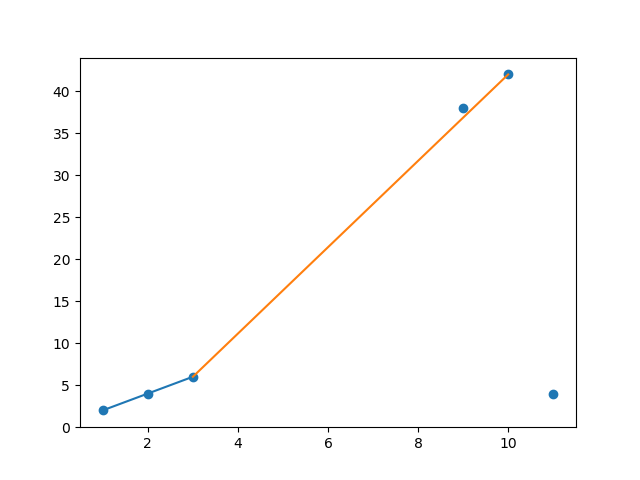
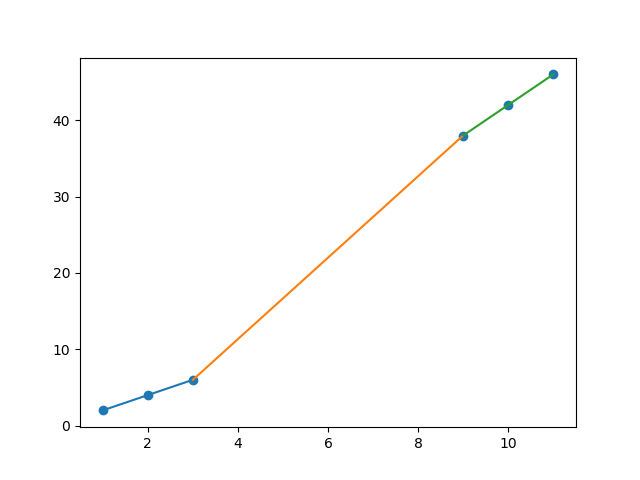
correct viz

diff --git a/plot.py b/plot.py
@@ -12,17 +12,34 @@ if __name__=='__main__':
 		points.append([(float)(point[:-1].split(" ")[0]),(float)(point[:-1].split(" ")[1])])
 		pointsXFull.append((float)(point[:-1].split(" ")[0]))
 		pointsYFull.append((float)(point[:-1].split(" ")[1]))
+	pathSegments=os.getcwd()+'/output/outputSegments.txt'
+	segments=[]
+	segmentsFile=open(pathSegments,'r')
+	len=0
+	for segment in reversed(segmentsFile.readlines()):
+		# print(line)
+		if(len==0):
+			segments.append((int)(segment.split(" ")[0]))
+			segments.append((int)(segment.split(" ")[1]))
+			len+=1
+			continue
+		segments.append((int)(segment.split(" ")[1]))
+		len+=1
+	print(segments)
 	pathLines=os.getcwd()+'/output/outputLines.txt'
 	lines=[]
 	linesFile=open(pathLines,'r')
 	len=0
 	for line in reversed(linesFile.readlines()):
 		# print(line)
-		if(len==0):
-			lines.append((int)(line.split(" ")[0]))
-		lines.append((int)(line.split(" ")[1]))
+		# if(len==0):
+		lines.append([(float)(line.split(" ")[0]),(float)(line.split(" ")[1])])
 		len+=1
+	print(lines)
 	plt.scatter(pointsXFull,pointsYFull)
-	for i in range(lines.__len__()-1):
-		plt.plot([pointsXFull[lines[i]],pointsXFull[lines[i+1]]],[pointsYFull[lines[i]],pointsYFull[lines[i+1]]])	
+	for i in range(segments.__len__()-1):
+		print(pointsXFull[segments[i]-1]),
+		print(pointsXFull[segments[i+1]-1])
+		plt.plot([pointsXFull[segments[i]-1],pointsXFull[segments[i+1]-1]],[pointsXFull[segments[i]-1]*lines[i][1]+lines[i][0],pointsXFull[segments[i+1]-1]*lines[i][1]+lines[i][0]])
+	# plt.show()
 	plt.savefig('fig1.png')

diff --git a/main.cpp b/main.cpp
@@ -51,14 +51,14 @@ void SegementedLeastSquares(std::vector<Point> points,double C)
 	std::ofstream output("./output/outputSegments.txt");
 	std::ofstream output2("./output/outputLines.txt");
 	tempIndex=num_points;
-	while(tempIndex!=0)
+	while(tempIndex!=1)
 	{
 		output<<startIndex[tempIndex]<<" "<<tempIndex<<"\n";
 		size=tempIndex-startIndex[tempIndex]+1;
 		beta=functionsAPI.getBeta(points,startIndex[tempIndex]-1,size);
 		alpha=functionsAPI.getAlpha(points,startIndex[tempIndex]-1,size,beta);
 		output2<<alpha<<" "<<beta<<"\n";
-		tempIndex=startIndex[tempIndex]-1;
+		tempIndex=startIndex[tempIndex];
 	}
 		
 }
